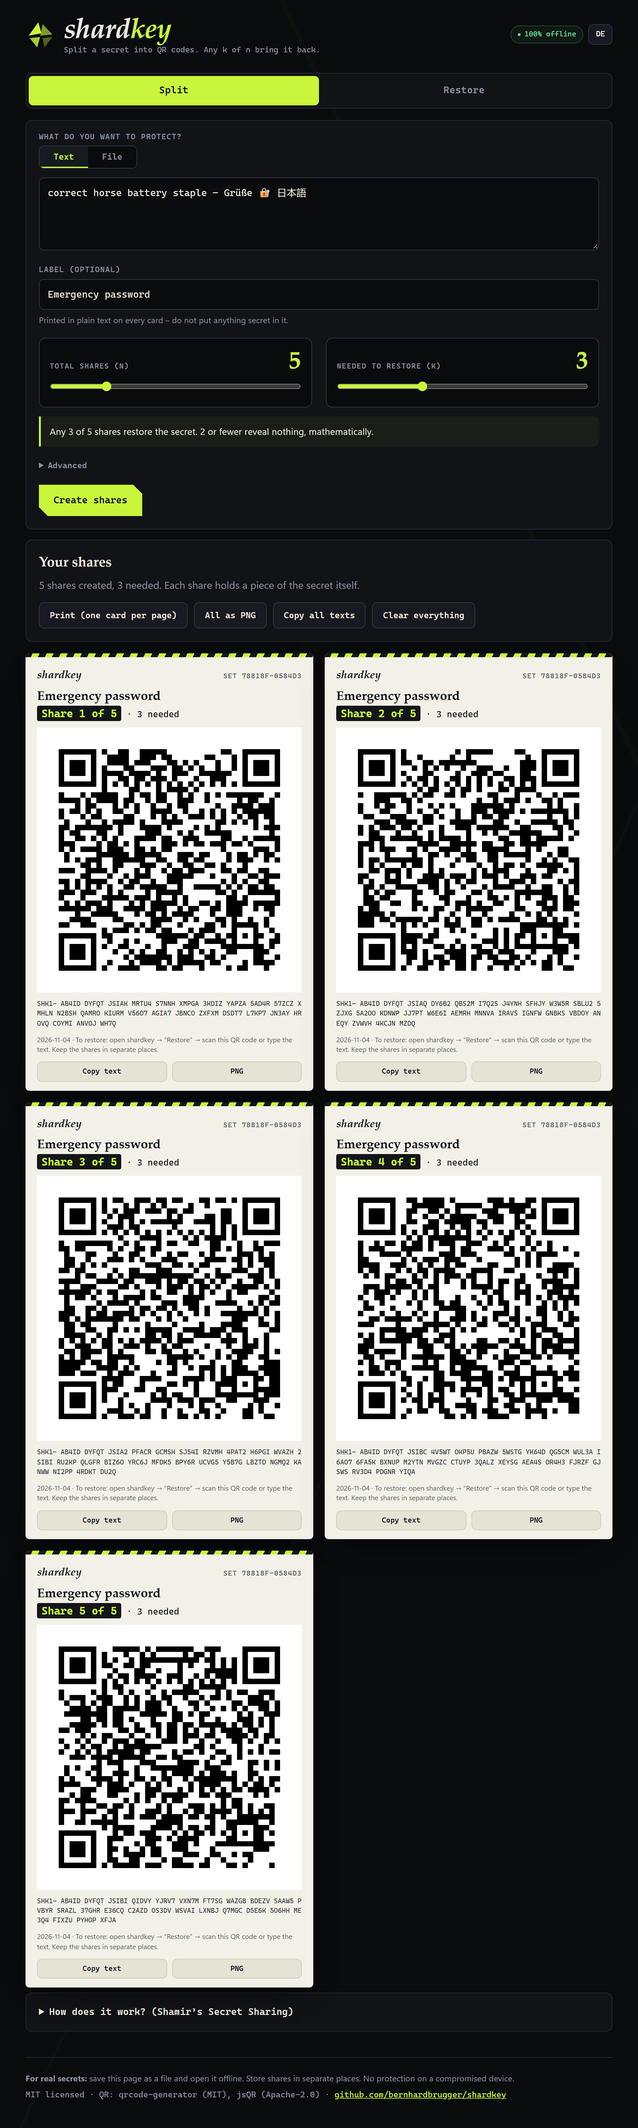
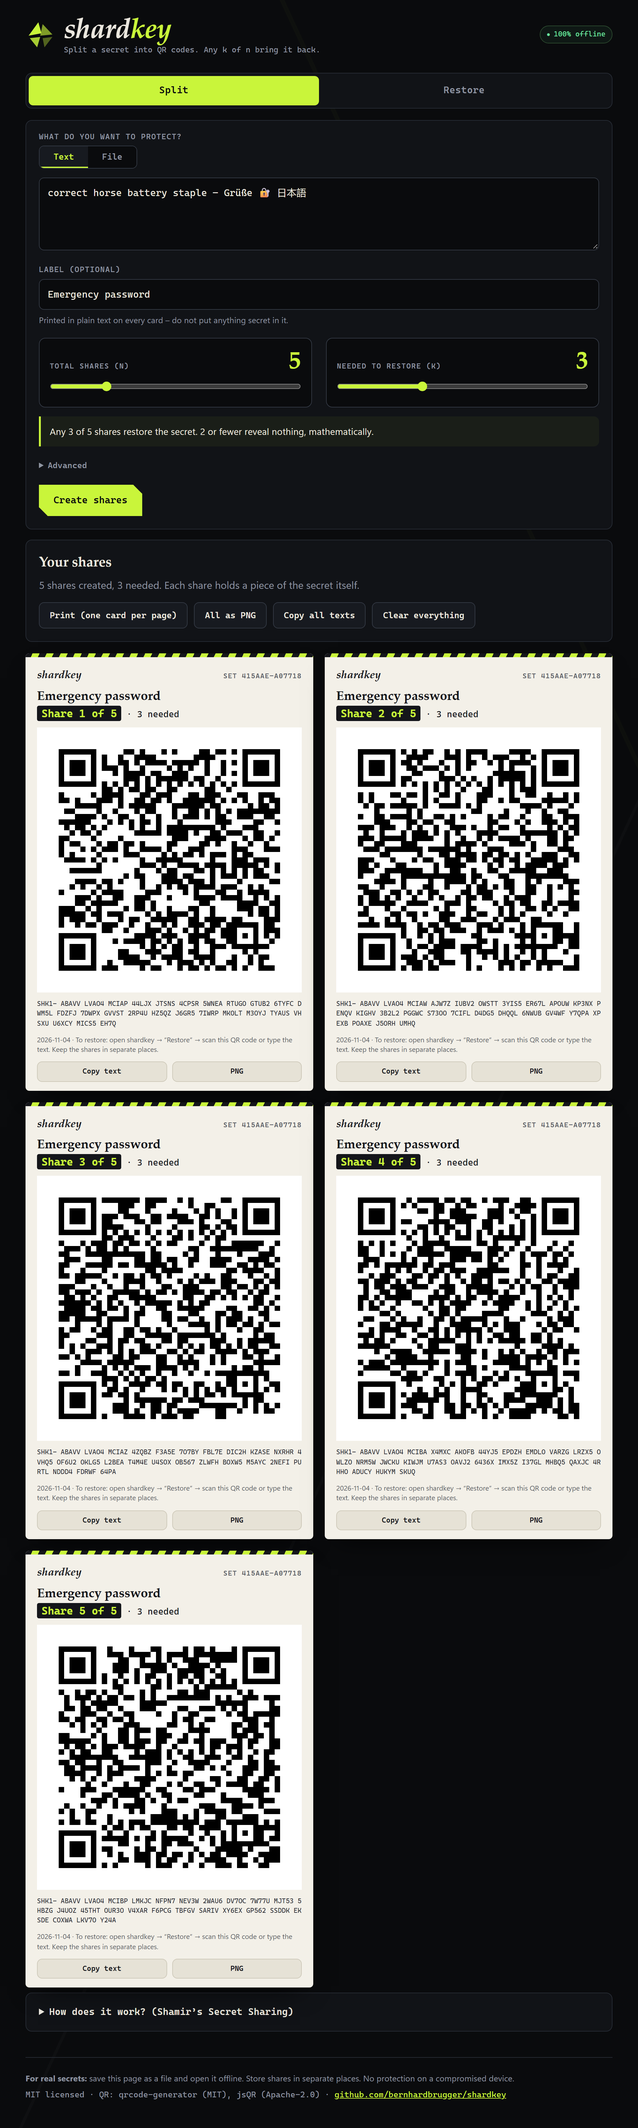
Make the UI English-only
Remove the German dictionary and the DE/EN switch; the page is English
regardless of browser locale. Update the e2e test accordingly, drop the
README note about German, re-seal CSP hashes and refresh screenshots.

diff --git a/index.html b/index.html
@@ -2,7 +2,7 @@
 <html lang="en">
 <head>
 <meta charset="utf-8">
-<meta http-equiv="Content-Security-Policy" content="default-src 'none'; script-src 'sha256-spFnL42i4Xv7ENmktrYuu+fRHzXFtXlHixv3c3yOc1o=' 'sha256-jz39vPuVB32FT9GuXaK+CoQk8yah1mN1PKcB+EjAyPs=' 'sha256-OG1DiT2qrOnVUMFT0Z7Vz5BTeSC6EnNG0GqUMoiJqgc=' 'sha256-jVXQ1fto8NuZMLtBJppKMs/o0/JWUjbCy6rbbahqz3U='; style-src 'sha256-RDhXm8zku319kfrDrtbTyDYfICUnHE4bZ7bIOAkkMxk='; img-src 'self' data: blob:; media-src blob:; connect-src 'none'; font-src 'none'; frame-src 'none'; worker-src 'none'; object-src 'none'; manifest-src 'none'; base-uri 'none'; form-action 'none'">
+<meta http-equiv="Content-Security-Policy" content="default-src 'none'; script-src 'sha256-spFnL42i4Xv7ENmktrYuu+fRHzXFtXlHixv3c3yOc1o=' 'sha256-jz39vPuVB32FT9GuXaK+CoQk8yah1mN1PKcB+EjAyPs=' 'sha256-OG1DiT2qrOnVUMFT0Z7Vz5BTeSC6EnNG0GqUMoiJqgc=' 'sha256-koTtjXDbBVkN9SnmTkgWPwgug/g+lO54//ZKrDQwtg8='; style-src 'sha256-RDhXm8zku319kfrDrtbTyDYfICUnHE4bZ7bIOAkkMxk='; img-src 'self' data: blob:; media-src blob:; connect-src 'none'; font-src 'none'; frame-src 'none'; worker-src 'none'; object-src 'none'; manifest-src 'none'; base-uri 'none'; form-action 'none'">
 <meta name="referrer" content="no-referrer">
 <meta name="viewport" content="width=device-width, initial-scale=1, viewport-fit=cover">
 <meta name="color-scheme" content="dark">
@@ -251,7 +251,6 @@ footer p { margin: 0 0 6px; }
   </div>
   <div class="top-right">
     <span class="pill" id="offlinePill" data-i18n="offline" data-i18n-title="offlineTip">100% offline</span>
-    <button class="btn sm" id="langBtn" type="button" aria-label="Language">DE</button>
   </div>
 </header>
 
@@ -13201,168 +13200,86 @@ const MAX_FILE = 25 * 1024 * 1024;
 
 /* ------------------------------------------------------------------ i18n */
 const T = {
-  de: {
-    skip: 'Zum Inhalt springen',
-    hosted: 'Du nutzt gerade die gehostete Kopie. Für echte Geheimnisse: Seite herunterladen und lokal, offline öffnen.',
-    hostedDl: 'index.html herunterladen',
-    tagline: 'Geheimnis in QR-Codes aufteilen. Beliebige k von n holen es zurück.',
-    offline: '100 % offline', offlineTip: 'Kein Netzwerkzugriff: per Content-Security-Policy technisch blockiert.',
-    tabSplit: 'Aufteilen', tabRecover: 'Wiederherstellen',
-    lblSource: 'Was soll geschützt werden?', srcText: 'Text', srcFile: 'Datei',
-    phSecret: 'Passwort, Recovery-Seed, Notiztext …', lblFile: 'Datei wählen oder hierher ziehen',
-    lblLabel: 'Label (optional)', phLabel: 'z. B. Notfall-Passwort',
-    labelHint: 'Steht im Klartext auf jeder Karte – schreibe nichts Geheimes hinein.',
-    lblN: 'Shares gesamt (n)', lblK: 'Davon nötig (k)',
-    knHint: 'Beliebige {k} von {n} Shares stellen das Geheimnis wieder her. {k1} oder weniger verraten mathematisch nichts.',
-    advanced: 'Erweitert', forceAes: 'Immer mit AES-256-GCM verschlüsseln',
-    forceAesHint: 'Standard: kleine Geheimnisse werden direkt aufgeteilt, große automatisch verschlüsselt (nur der Schlüssel wird aufgeteilt).',
-    btnGenerate: 'Shares erzeugen', working: 'Erzeuge …',
-    outTitle: 'Deine Shares',
-    outDirect: '{n} Shares erzeugt, {k} nötig. Jeder Share enthält ein Stück des Geheimnisses selbst.',
-    outAes: '{n} Shares erzeugt, {k} nötig. Das Geheimnis ist mit AES-256-GCM verschlüsselt; die Shares enthalten nur den Schlüssel.',
-    outEmbedded: ' Der Ciphertext steckt in jedem Share.',
-    outSep: ' Der Ciphertext liegt in einer separaten Datei (siehe unten).',
-    ctTitle: 'Ciphertext-Datei',
-    ctText: 'Der verschlüsselte Inhalt ist für einen QR-Code zu groß. Speichere diese Datei sicher (ohne {k} Shares ist sie wertlos, z. B. Cloud oder USB-Stick). Zum Wiederherstellen brauchst du sie plus {k} Shares.',
-    ctDl: 'Ciphertext herunterladen (.shkc)',
-    btnPrint: 'Drucken (1 Karte pro Seite)', btnPngAll: 'Alle als PNG', btnCopyAll: 'Alle Texte kopieren', btnClear: 'Alles löschen',
-    btnCopy: 'Text kopieren', btnPng: 'PNG', copied: 'Kopiert', pngStarted: 'PNG-Download gestartet',
-    cardShare: 'Share {x} von {n}', cardNeed: '{k} nötig', cardSet: 'Set {id}',
-    cardHow: 'Wiederherstellen: shardkey öffnen → „Wiederherstellen“ → diesen QR-Code scannen oder den Text eingeben. Shares getrennt aufbewahren.',
-    cardAes: 'Dieses Set braucht zusätzlich die Ciphertext-Datei (.shkc).',
-    errEmpty: 'Bitte gib ein Geheimnis ein.', errNoFile: 'Bitte wähle eine Datei.', errTooLarge: 'Die Datei ist zu groß (max. {max} MB).',
-    errSplit: 'Aufteilen fehlgeschlagen: {msg}',
-    progNone: 'Noch kein Share erfasst. Scanne einen QR-Code, lade ein Bild hoch oder füge den Text ein.',
-    progHave: '{have} von {k} Shares erfasst', progMore: 'noch {more} nötig', progSet: 'Set {id} · n = {n}',
-    progDone: 'Genug Shares – Geheimnis wiederhergestellt.',
-    btnCam: 'Mit Kamera scannen', btnCamStop: 'Kamera stoppen', btnImg: 'Bild hochladen',
-    lblPaste: 'Share-Text einfügen', btnAddText: 'Hinzufügen',
-    camUnsupported: 'Kamera nicht verfügbar (Browser oder unsicherer Kontext). Nutze Bild-Upload oder Text.',
-    camDenied: 'Kein Kamerazugriff (verweigert oder keine Kamera gefunden).',
-    msgAdded: 'Share {x} hinzugefügt.', msgDup: 'Share {x} war schon erfasst.',
-    noShares: 'Keine Share-Texte gefunden (sie beginnen mit „SHK1-“).',
-    noQr: 'In „{name}“ wurde kein QR-Code erkannt.',
-    imgFail: '„{name}“ konnte nicht als Bild gelesen werden.',
-    prefix: 'Eintrag {i}: ',
-    err_BAD_PREFIX: 'Das ist kein shardkey-Share (er müsste mit „SHK1-“ beginnen).',
-    err_UNSUPPORTED_VERSION: 'Dieser Share hat Format-Version {version}; diese Seite versteht nur Version 1.',
-    err_BAD_ENCODING: 'Ungültiges Zeichen „{char}“ an Position {pos} – Tippfehler?',
-    err_TRUNCATED: 'Der Share-Text ist unvollständig oder abgeschnitten.',
-    err_BAD_CHECKSUM: 'Prüfsumme falsch – Tipp- oder Scanfehler. Bitte erneut scannen bzw. Text prüfen.',
-    err_BAD_HEADER: 'Der Share ist beschädigt (ungültiger Kopfbereich).',
-    err_MIXED_SETS: 'Dieser Share gehört zu einem anderen Set ({b}) als die bereits erfassten ({a}) und wurde nicht hinzugefügt.',
-    err_INCONSISTENT: 'Dieser Share passt nicht zu den anderen seines Sets (abweichende Parameter).',
-    err_DUPLICATE_INDEX: 'Für Share {x} liegen zwei verschiedene Versionen vor – eine davon ist beschädigt.',
-    err_CT_MISMATCH: 'Diese Ciphertext-Datei gehört zu Set {b}, benötigt wird Set {a}.',
-    err_BAD_CT_FILE: 'Das ist keine gültige Ciphertext-Datei (.shkc) oder sie ist beschädigt.',
-    err_DECRYPT_FAILED: 'Entschlüsselung fehlgeschlagen: Die Shares passen nicht zusammen oder die Ciphertext-Datei ist beschädigt.',
-    err_VERIFY_FAILED: 'Die Prüfsumme des wiederhergestellten Geheimnisses stimmt nicht: Mindestens ein Share ist falsch. Entferne verdächtige Shares oder scanne sie neu.',
-    err_NEED_CIPHERTEXT: 'Die Ciphertext-Datei fehlt.',
-    err_TOO_FEW: 'Zu wenige Shares.',
-    err_UNKNOWN: 'Unerwarteter Fehler: {msg}',
-    ctNeedTitle: 'Ciphertext-Datei nötig',
-    ctNeedText: 'Dieses Set speichert größere Daten verschlüsselt. Wähle die zugehörige .shkc-Datei.',
-    ctLoaded: 'Ciphertext geladen: {name}', ctPick: 'Ciphertext-Datei wählen',
-    resOk: 'Wiederhergestellt und verifiziert', resOkHint: 'Die Prüfsumme des Originals stimmt.',
-    reveal: 'Anzeigen', hide: 'Verbergen', copySecret: 'Kopieren', fileDl: 'Datei herunterladen', resFileInfo: '{name} · {size}',
-    resetRec: 'Neu beginnen', shareChip: 'Share {x}', remove: 'Entfernen',
-    explTitle: 'Wie funktioniert das? (Shamir’s Secret Sharing)',
-    expl1: 'Durch zwei Punkte geht genau eine Gerade, durch drei Punkte genau eine Parabel, durch <b>k</b> Punkte genau ein Polynom vom Grad <b>k − 1</b>. shardkey wählt ein zufälliges Polynom, dessen Wert bei <b>x = 0</b> dein Geheimnis ist. Die Shares sind Punkte auf dieser Kurve.',
-    expl2: 'Mit k Punkten ist das Polynom eindeutig bestimmt – und damit sein Wert bei x = 0. Probiere es aus: Ziehe die Punkte, das Geheimnis (gelb) wandert mit.',
-    polyLess: 'Nur k−1 Punkte bekannt', polyRand: 'Mischen',
-    polyRead: 'Geheimnis p(0) = {v}. Diese {k} Punkte legen genau eine Kurve fest.',
-    polyReadOff: 'Geheimnis p(0) = {v} (außerhalb des Bildausschnitts). Diese {k} Punkte legen genau eine Kurve fest.',
-    polyReadLess: 'Nur {m} Punkt(e) bekannt: Zu <i>jedem</i> möglichen Geheimnis (gelbe Marken) gibt es eine passende Kurve. Wer k−1 Shares hat, weiß nichts.',
-    polyAxis: 'x = 0 · Geheimnis', polyShare: 'Share {x}',
-    expl3: 'Mit nur <b>k − 1</b> Punkten passen unendlich viele Kurven – zu jedem denkbaren Geheimnis genau eine. Deshalb verraten k − 1 Shares <i>mathematisch nichts</i> (nicht bloß „schwer zu erraten“).',
-    expl4: 'Die Grafik rechnet der Anschaulichkeit halber mit reellen Zahlen. shardkey rechnet byteweise im endlichen Körper GF(256); so ist jeder Share genauso groß wie das Geheimnis und es gibt keine Rundungsfehler.',
-    footSafe: '<b>Für echte Geheimnisse:</b> Speichere diese Seite als Datei und öffne sie offline. Shares getrennt aufbewahren. Kein Schutz auf einem kompromittierten Gerät.',
-    footCredits: 'MIT-Lizenz · QR: qrcode-generator (MIT), jsQR (Apache-2.0) ·',
-  },
-  en: {
-    skip: 'Skip to content',
-    hosted: 'You are using the hosted copy. For real secrets, download this page and open it locally, offline.',
-    hostedDl: 'Download index.html',
-    tagline: 'Split a secret into QR codes. Any k of n bring it back.',
-    offline: '100% offline', offlineTip: 'No network access: blocked technically by the Content-Security-Policy.',
-    tabSplit: 'Split', tabRecover: 'Restore',
-    lblSource: 'What do you want to protect?', srcText: 'Text', srcFile: 'File',
-    phSecret: 'Password, recovery seed, note ...', lblFile: 'Choose a file or drop it here',
-    lblLabel: 'Label (optional)', phLabel: 'e.g. Emergency password',
-    labelHint: 'Printed in plain text on every card – do not put anything secret in it.',
-    lblN: 'Total shares (n)', lblK: 'Needed to restore (k)',
-    knHint: 'Any {k} of {n} shares restore the secret. {k1} or fewer reveal nothing, mathematically.',
-    advanced: 'Advanced', forceAes: 'Always encrypt with AES-256-GCM',
-    forceAesHint: 'Default: small secrets are split directly, large ones are encrypted automatically (only the key is split).',
-    btnGenerate: 'Create shares', working: 'Working …',
-    outTitle: 'Your shares',
-    outDirect: '{n} shares created, {k} needed. Each share holds a piece of the secret itself.',
-    outAes: '{n} shares created, {k} needed. The secret is encrypted with AES-256-GCM; the shares only hold the key.',
-    outEmbedded: ' The ciphertext is embedded in every share.',
-    outSep: ' The ciphertext is in a separate file (see below).',
-    ctTitle: 'Ciphertext file',
-    ctText: 'The encrypted content is too large for a QR code. Keep this file safe (it is useless without {k} shares, so cloud or USB stick are fine). To restore you need it plus {k} shares.',
-    ctDl: 'Download ciphertext (.shkc)',
-    btnPrint: 'Print (one card per page)', btnPngAll: 'All as PNG', btnCopyAll: 'Copy all texts', btnClear: 'Clear everything',
-    btnCopy: 'Copy text', btnPng: 'PNG', copied: 'Copied', pngStarted: 'PNG download started',
-    cardShare: 'Share {x} of {n}', cardNeed: '{k} needed', cardSet: 'Set {id}',
-    cardHow: 'To restore: open shardkey → “Restore” → scan this QR code or type the text. Keep the shares in separate places.',
-    cardAes: 'This set additionally needs the ciphertext file (.shkc).',
-    errEmpty: 'Please enter a secret.', errNoFile: 'Please choose a file.', errTooLarge: 'The file is too large (max. {max} MB).',
-    errSplit: 'Splitting failed: {msg}',
-    progNone: 'No share collected yet. Scan a QR code, upload an image or paste the text.',
-    progHave: '{have} of {k} shares collected', progMore: '{more} more needed', progSet: 'Set {id} · n = {n}',
-    progDone: 'Enough shares – secret restored.',
-    btnCam: 'Scan with camera', btnCamStop: 'Stop camera', btnImg: 'Upload image',
-    lblPaste: 'Paste share text', btnAddText: 'Add',
-    camUnsupported: 'Camera unavailable (browser or insecure context). Use image upload or text.',
-    camDenied: 'No camera access (denied or no camera found).',
-    msgAdded: 'Share {x} added.', msgDup: 'Share {x} was already collected.',
-    noShares: 'No share text found (shares start with “SHK1-”).',
-    noQr: 'No QR code found in “{name}”.',
-    imgFail: '“{name}” could not be read as an image.',
-    prefix: 'Entry {i}: ',
-    err_BAD_PREFIX: 'This is not a shardkey share (it should start with “SHK1-”).',
-    err_UNSUPPORTED_VERSION: 'This share has format version {version}; this page only understands version 1.',
-    err_BAD_ENCODING: 'Invalid character “{char}” at position {pos} – typo?',
-    err_TRUNCATED: 'The share text is incomplete or cut off.',
-    err_BAD_CHECKSUM: 'Checksum mismatch – typo or scan error. Please scan again or check the text.',
-    err_BAD_HEADER: 'The share is damaged (invalid header).',
-    err_MIXED_SETS: 'This share belongs to a different set ({b}) than the ones already collected ({a}) and was not added.',
-    err_INCONSISTENT: 'This share does not fit the others of its set (different parameters).',
-    err_DUPLICATE_INDEX: 'There are two different versions of share {x} – one of them is damaged.',
-    err_CT_MISMATCH: 'This ciphertext file belongs to set {b}, but set {a} is needed.',
-    err_BAD_CT_FILE: 'This is not a valid ciphertext file (.shkc) or it is damaged.',
-    err_DECRYPT_FAILED: 'Decryption failed: the shares do not belong together or the ciphertext file is damaged.',
-    err_VERIFY_FAILED: 'The restored secret does not match its hash: at least one share is wrong. Remove suspicious shares or scan them again.',
-    err_NEED_CIPHERTEXT: 'The ciphertext file is missing.',
-    err_TOO_FEW: 'Too few shares.',
-    err_UNKNOWN: 'Unexpected error: {msg}',
-    ctNeedTitle: 'Ciphertext file needed',
-    ctNeedText: 'This set stores larger data encrypted. Choose the matching .shkc file.',
-    ctLoaded: 'Ciphertext loaded: {name}', ctPick: 'Choose ciphertext file',
-    resOk: 'Restored and verified', resOkHint: 'The hash of the original matches.',
-    reveal: 'Reveal', hide: 'Hide', copySecret: 'Copy', fileDl: 'Download file', resFileInfo: '{name} · {size}',
-    resetRec: 'Start over', shareChip: 'Share {x}', remove: 'Remove',
-    explTitle: 'How does it work? (Shamir’s Secret Sharing)',
-    expl1: 'Two points define exactly one line, three points exactly one parabola, <b>k</b> points exactly one polynomial of degree <b>k − 1</b>. shardkey picks a random polynomial whose value at <b>x = 0</b> is your secret. The shares are points on that curve.',
-    expl2: 'With k points the polynomial is fixed – and so is its value at x = 0. Try it: drag the points and the secret (yellow) moves with them.',
-    polyLess: 'Only k−1 points known', polyRand: 'Shuffle',
-    polyRead: 'Secret p(0) = {v}. These {k} points fix exactly one curve.',
-    polyReadOff: 'Secret p(0) = {v} (off the chart). These {k} points fix exactly one curve.',
-    polyReadLess: 'Only {m} point(s) known: <i>every</i> possible secret (yellow marks) has a matching curve. Holding k−1 shares tells you nothing.',
-    polyAxis: 'x = 0 · secret', polyShare: 'Share {x}',
-    expl3: 'With only <b>k − 1</b> points, infinitely many curves fit – exactly one for every conceivable secret. That is why k − 1 shares reveal <i>mathematically nothing</i> (not merely “hard to guess”).',
-    expl4: 'The chart uses real numbers for clarity. shardkey works byte by byte in the finite field GF(256), so every share is exactly as large as the secret and there are no rounding errors.',
-    footSafe: '<b>For real secrets:</b> save this page as a file and open it offline. Store shares in separate places. No protection on a compromised device.',
-    footCredits: 'MIT licensed · QR: qrcode-generator (MIT), jsQR (Apache-2.0) ·',
-  },
+  skip: 'Skip to content',
+  hosted: 'You are using the hosted copy. For real secrets, download this page and open it locally, offline.',
+  hostedDl: 'Download index.html',
+  tagline: 'Split a secret into QR codes. Any k of n bring it back.',
+  offline: '100% offline', offlineTip: 'No network access: blocked technically by the Content-Security-Policy.',
+  tabSplit: 'Split', tabRecover: 'Restore',
+  lblSource: 'What do you want to protect?', srcText: 'Text', srcFile: 'File',
+  phSecret: 'Password, recovery seed, note ...', lblFile: 'Choose a file or drop it here',
+  lblLabel: 'Label (optional)', phLabel: 'e.g. Emergency password',
+  labelHint: 'Printed in plain text on every card – do not put anything secret in it.',
+  lblN: 'Total shares (n)', lblK: 'Needed to restore (k)',
+  knHint: 'Any {k} of {n} shares restore the secret. {k1} or fewer reveal nothing, mathematically.',
+  advanced: 'Advanced', forceAes: 'Always encrypt with AES-256-GCM',
+  forceAesHint: 'Default: small secrets are split directly, large ones are encrypted automatically (only the key is split).',
+  btnGenerate: 'Create shares', working: 'Working …',
+  outTitle: 'Your shares',
+  outDirect: '{n} shares created, {k} needed. Each share holds a piece of the secret itself.',
+  outAes: '{n} shares created, {k} needed. The secret is encrypted with AES-256-GCM; the shares only hold the key.',
+  outEmbedded: ' The ciphertext is embedded in every share.',
+  outSep: ' The ciphertext is in a separate file (see below).',
+  ctTitle: 'Ciphertext file',
+  ctText: 'The encrypted content is too large for a QR code. Keep this file safe (it is useless without {k} shares, so cloud or USB stick are fine). To restore you need it plus {k} shares.',
+  ctDl: 'Download ciphertext (.shkc)',
+  btnPrint: 'Print (one card per page)', btnPngAll: 'All as PNG', btnCopyAll: 'Copy all texts', btnClear: 'Clear everything',
+  btnCopy: 'Copy text', btnPng: 'PNG', copied: 'Copied', pngStarted: 'PNG download started',
+  cardShare: 'Share {x} of {n}', cardNeed: '{k} needed', cardSet: 'Set {id}',
+  cardHow: 'To restore: open shardkey → “Restore” → scan this QR code or type the text. Keep the shares in separate places.',
+  cardAes: 'This set additionally needs the ciphertext file (.shkc).',
+  errEmpty: 'Please enter a secret.', errNoFile: 'Please choose a file.', errTooLarge: 'The file is too large (max. {max} MB).',
+  errSplit: 'Splitting failed: {msg}',
+  progNone: 'No share collected yet. Scan a QR code, upload an image or paste the text.',
+  progHave: '{have} of {k} shares collected', progMore: '{more} more needed', progSet: 'Set {id} · n = {n}',
+  progDone: 'Enough shares – secret restored.',
+  btnCam: 'Scan with camera', btnCamStop: 'Stop camera', btnImg: 'Upload image',
+  lblPaste: 'Paste share text', btnAddText: 'Add',
+  camUnsupported: 'Camera unavailable (browser or insecure context). Use image upload or text.',
+  camDenied: 'No camera access (denied or no camera found).',
+  msgAdded: 'Share {x} added.', msgDup: 'Share {x} was already collected.',
+  noShares: 'No share text found (shares start with “SHK1-”).',
+  noQr: 'No QR code found in “{name}”.',
+  imgFail: '“{name}” could not be read as an image.',
+  prefix: 'Entry {i}: ',
+  err_BAD_PREFIX: 'This is not a shardkey share (it should start with “SHK1-”).',
+  err_UNSUPPORTED_VERSION: 'This share has format version {version}; this page only understands version 1.',
+  err_BAD_ENCODING: 'Invalid character “{char}” at position {pos} – typo?',
+  err_TRUNCATED: 'The share text is incomplete or cut off.',
+  err_BAD_CHECKSUM: 'Checksum mismatch – typo or scan error. Please scan again or check the text.',
+  err_BAD_HEADER: 'The share is damaged (invalid header).',
+  err_MIXED_SETS: 'This share belongs to a different set ({b}) than the ones already collected ({a}) and was not added.',
+  err_INCONSISTENT: 'This share does not fit the others of its set (different parameters).',
+  err_DUPLICATE_INDEX: 'There are two different versions of share {x} – one of them is damaged.',
+  err_CT_MISMATCH: 'This ciphertext file belongs to set {b}, but set {a} is needed.',
+  err_BAD_CT_FILE: 'This is not a valid ciphertext file (.shkc) or it is damaged.',
+  err_DECRYPT_FAILED: 'Decryption failed: the shares do not belong together or the ciphertext file is damaged.',
+  err_VERIFY_FAILED: 'The restored secret does not match its hash: at least one share is wrong. Remove suspicious shares or scan them again.',
+  err_NEED_CIPHERTEXT: 'The ciphertext file is missing.',
+  err_TOO_FEW: 'Too few shares.',
+  err_UNKNOWN: 'Unexpected error: {msg}',
+  ctNeedTitle: 'Ciphertext file needed',
+  ctNeedText: 'This set stores larger data encrypted. Choose the matching .shkc file.',
+  ctLoaded: 'Ciphertext loaded: {name}', ctPick: 'Choose ciphertext file',
+  resOk: 'Restored and verified', resOkHint: 'The hash of the original matches.',
+  reveal: 'Reveal', hide: 'Hide', copySecret: 'Copy', fileDl: 'Download file', resFileInfo: '{name} · {size}',
+  resetRec: 'Start over', shareChip: 'Share {x}', remove: 'Remove',
+  explTitle: 'How does it work? (Shamir’s Secret Sharing)',
+  expl1: 'Two points define exactly one line, three points exactly one parabola, <b>k</b> points exactly one polynomial of degree <b>k − 1</b>. shardkey picks a random polynomial whose value at <b>x = 0</b> is your secret. The shares are points on that curve.',
+  expl2: 'With k points the polynomial is fixed – and so is its value at x = 0. Try it: drag the points and the secret (yellow) moves with them.',
+  polyLess: 'Only k−1 points known', polyRand: 'Shuffle',
+  polyRead: 'Secret p(0) = {v}. These {k} points fix exactly one curve.',
+  polyReadOff: 'Secret p(0) = {v} (off the chart). These {k} points fix exactly one curve.',
+  polyReadLess: 'Only {m} point(s) known: <i>every</i> possible secret (yellow marks) has a matching curve. Holding k−1 shares tells you nothing.',
+  polyAxis: 'x = 0 · secret', polyShare: 'Share {x}',
+  expl3: 'With only <b>k − 1</b> points, infinitely many curves fit – exactly one for every conceivable secret. That is why k − 1 shares reveal <i>mathematically nothing</i> (not merely “hard to guess”).',
+  expl4: 'The chart uses real numbers for clarity. shardkey works byte by byte in the finite field GF(256), so every share is exactly as large as the secret and there are no rounding errors.',
+  footSafe: '<b>For real secrets:</b> save this page as a file and open it offline. Store shares in separate places. No protection on a compromised device.',
+  footCredits: 'MIT licensed · QR: qrcode-generator (MIT), jsQR (Apache-2.0) ·',
 };
-const qsLang = new URLSearchParams(location.search).get('lang');
-let lang = qsLang === 'de' || qsLang === 'en' ? qsLang : /^de\b/i.test(navigator.language || '') ? 'de' : 'en';
-const t = (key, p) => String(T[lang][key] ?? T.en[key] ?? key).replace(/\{(\w+)\}/g, (m, n) => (p && p[n] != null ? p[n] : m));
+const t = (key, p) => String(T[key] ?? key).replace(/\{(\w+)\}/g, (m, n) => (p && p[n] != null ? p[n] : m));
 const errText = (e) => {
-  if (e && e.name === 'ShardkeyError' && T.en['err_' + e.code]) return t('err_' + e.code, e.params);
+  if (e && e.name === 'ShardkeyError' && T['err_' + e.code]) return t('err_' + e.code, e.params);
   return t('err_UNKNOWN', { msg: (e && e.message) || String(e) });
 };
 
@@ -13844,12 +13761,10 @@ function initPoly() {
 /* ---------------------------------------------------------------- wiring */
 let rebuildPoly = () => {};
 function applyI18n() {
-  document.documentElement.lang = lang;
   $$('[data-i18n]').forEach((e) => { e.textContent = t(e.dataset.i18n); });
   $$('[data-i18n-html]').forEach((e) => { e.innerHTML = t(e.dataset.i18nHtml); });      // static strings from this file only
   $$('[data-i18n-ph]').forEach((e) => { e.placeholder = t(e.dataset.i18nPh); });
   $$('[data-i18n-title]').forEach((e) => { e.title = t(e.dataset.i18nTitle); });
-  $('#langBtn').textContent = lang === 'de' ? 'EN' : 'DE';
   document.title = 'shardkey · ' + t('tagline');
   updateKN(); updateDropText(); renderOutput(); renderRecover(); renderMsgs(); rebuildPoly();
   const b = $('#btnGenerate'); if (!b.disabled) b.textContent = t('btnGenerate');
@@ -13865,7 +13780,6 @@ function showTab(name) {
 }
 
 function init() {
-  $('#langBtn').addEventListener('click', () => { lang = lang === 'de' ? 'en' : 'de'; applyI18n(); });
   const tabs = ['split', 'recover'];
   tabs.forEach((n, i) => {
     const b = $('#tab-' + n);

diff --git a/README.md b/README.md
@@ -46,8 +46,6 @@ Every share comes as a QR code plus text, and as a printable card (one per page)
    them, or paste the text. The counter shows "2 of 3 shares collected"; with the third share the secret appears
    (hidden until you click *Reveal*; files are offered as a download).
 
-The UI speaks English and German (button top right; follows the browser language).
-
 ## How Shamir's Secret Sharing works (in plain words)
 
 Two points determine exactly one straight line. Three points determine exactly one parabola. *k* points determine
